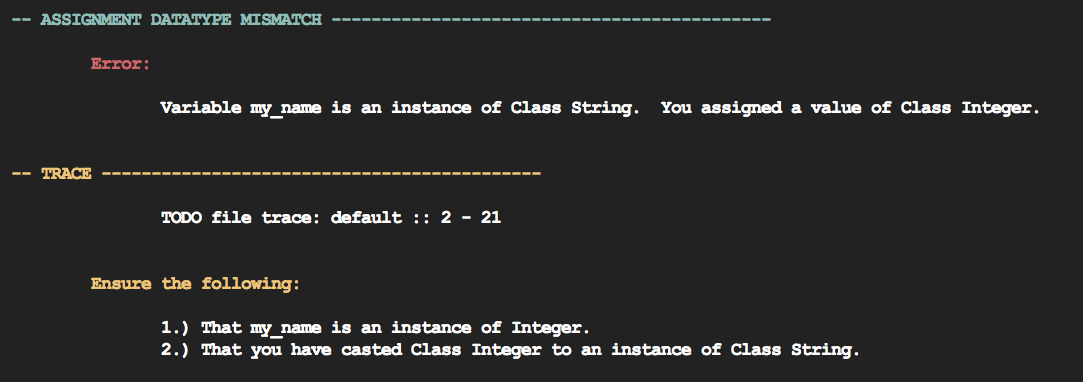
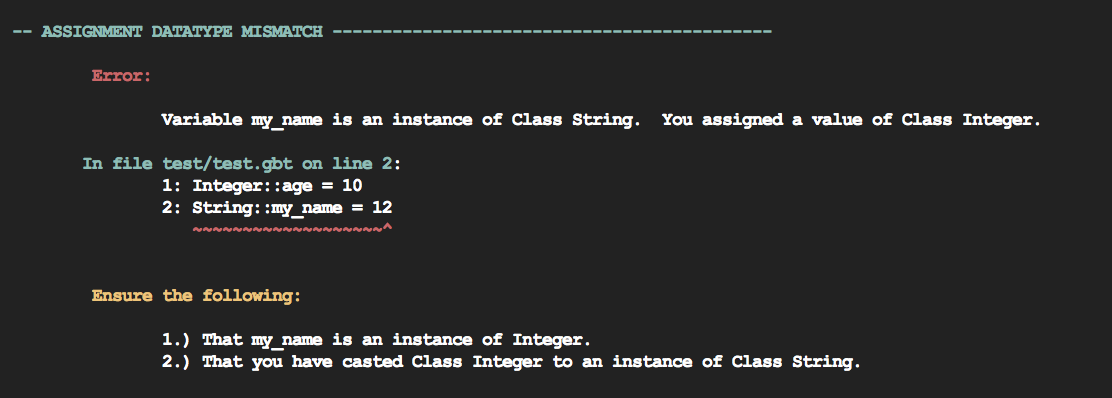
add file trace

diff --git a/inc/check/iEvent.hpp b/inc/check/iEvent.hpp
@@ -2,6 +2,7 @@
 #define __iCHECKEVENT 1
 
 #include <iostream>
+#include <fstream>
 #include <string>
 #include <vector>
 
@@ -78,13 +79,55 @@ namespace Check
       {
         sprintf(PUSH_BUFFER,
           "\t%s Ensure the following: %s\n\n", this->yellow.c_str(), this->reset.c_str());
-      }
+      };
 
       virtual void emitReference(std::string msg, int refCt)
       {
         sprintf(PUSH_BUFFER,
           "\t\t%d.) %s \n", refCt, msg.c_str());
-      }
+      };
+
+      virtual void emitStackTrace(std::string filename, std::string errline, std::string column)
+      {
+        int line_number = std::stoi(errline);
+        int column_number = std::stoi(column) - 3;
+        int i = 1;
+        std::string line;
+        std::ifstream error_file(filename);
+
+        this->emitLineLabel(
+          std::string(this->cyan).append("In file ")
+            .append(filename).append(" on line ").append(errline).append(this->reset.c_str())
+        );
+
+        if (error_file)
+        {
+          while(std::getline(error_file, line))
+          {
+            if (i >= line_number - 5 || i <= line_number + 5)
+            {
+              this->emitLine(std::to_string(i).append(": ").append(line));
+            }
+            if (i == line_number)
+            {
+              std::string culprit = "";
+              culprit.assign(std::to_string(i).length() + 2, ' ');
+              culprit.append(this->red);
+              int j = 0;
+              while(j <= column_number)
+              {
+                culprit.append("~");
+                j++;
+              }
+              culprit.append("^");
+              culprit.append(this->reset.c_str());
+              this->emitLine(culprit);
+            }
+            i++;
+          }
+        }
+
+      };
   };
 }
 

diff --git a/inc/gambit/scanner.hpp b/inc/gambit/scanner.hpp
@@ -6,6 +6,7 @@
   #include <fstream>
 #endif
 
+#include <string>
 #include "gambit/parser.tab.hpp"
 #include "gambit/location.hh"
 
@@ -16,14 +17,22 @@ namespace Gambit {
 
     private:
 
+      std::string filename;
+
       Gambit::Parser::semantic_type *yylval = nullptr;
       Gambit::Parser::location_type *loc    = nullptr;
 
     public:
 
-      Scanner(std::istream *in) : yyFlexLexer(in)
+      Scanner(std::istream *in, std::string filename) : yyFlexLexer(in)
       {
+        this->filename = filename;
         loc = new Gambit::Parser::location_type();
+      };
+
+      virtual std::string getFileName()
+      {
+        return this->filename;
       };
 
       virtual ~Scanner()

diff --git a/src/check/events/assignDataTypeMismatch.cpp b/src/check/events/assignDataTypeMismatch.cpp
@@ -9,9 +9,11 @@ Check::AssignDataTypeMismatch::with(std::vector<std::string> parameters)
                       .append(" You assigned a value of Class ").append(parameters[3]).append(".");
 
   this->emitError(error);
-  this->emitTrace();
+  //this->emitTrace();
 
-  this->emitLine("TODO file trace: " + std::string(parameters[4] + " :: " + parameters[5] + " - " + parameters[6]));
+  //this->emitLine("TODO file trace: " + std::string(parameters[4] + " :: " + parameters[5] + " - " + parameters[6]));
+
+  emitStackTrace(std::string(parameters[4]), std::string(parameters[5]), std::string(parameters[6]));
 
   this->emitLine("\n");
 

diff --git a/src/gambit/lang/driver.cpp b/src/gambit/lang/driver.cpp
@@ -25,7 +25,7 @@ Gambit::Driver::parse( const char * const filename )
    delete(scanner);
    try
    {
-      scanner = new Gambit::Scanner( &in_file );
+      scanner = new Gambit::Scanner( &in_file, std::string(filename) );
    }
    catch( std::bad_alloc &ba )
    {

diff --git a/inc/gambit/lang/driver.hpp b/inc/gambit/lang/driver.hpp
@@ -5,6 +5,7 @@
 #include <fstream>
 #include <cassert>
 
+#include <string>
 #include "dev/debugnew/debug_new.h"
 #include "shared/lang/iDriver.hpp"
 #include "gambit/ast/ast.hpp"
